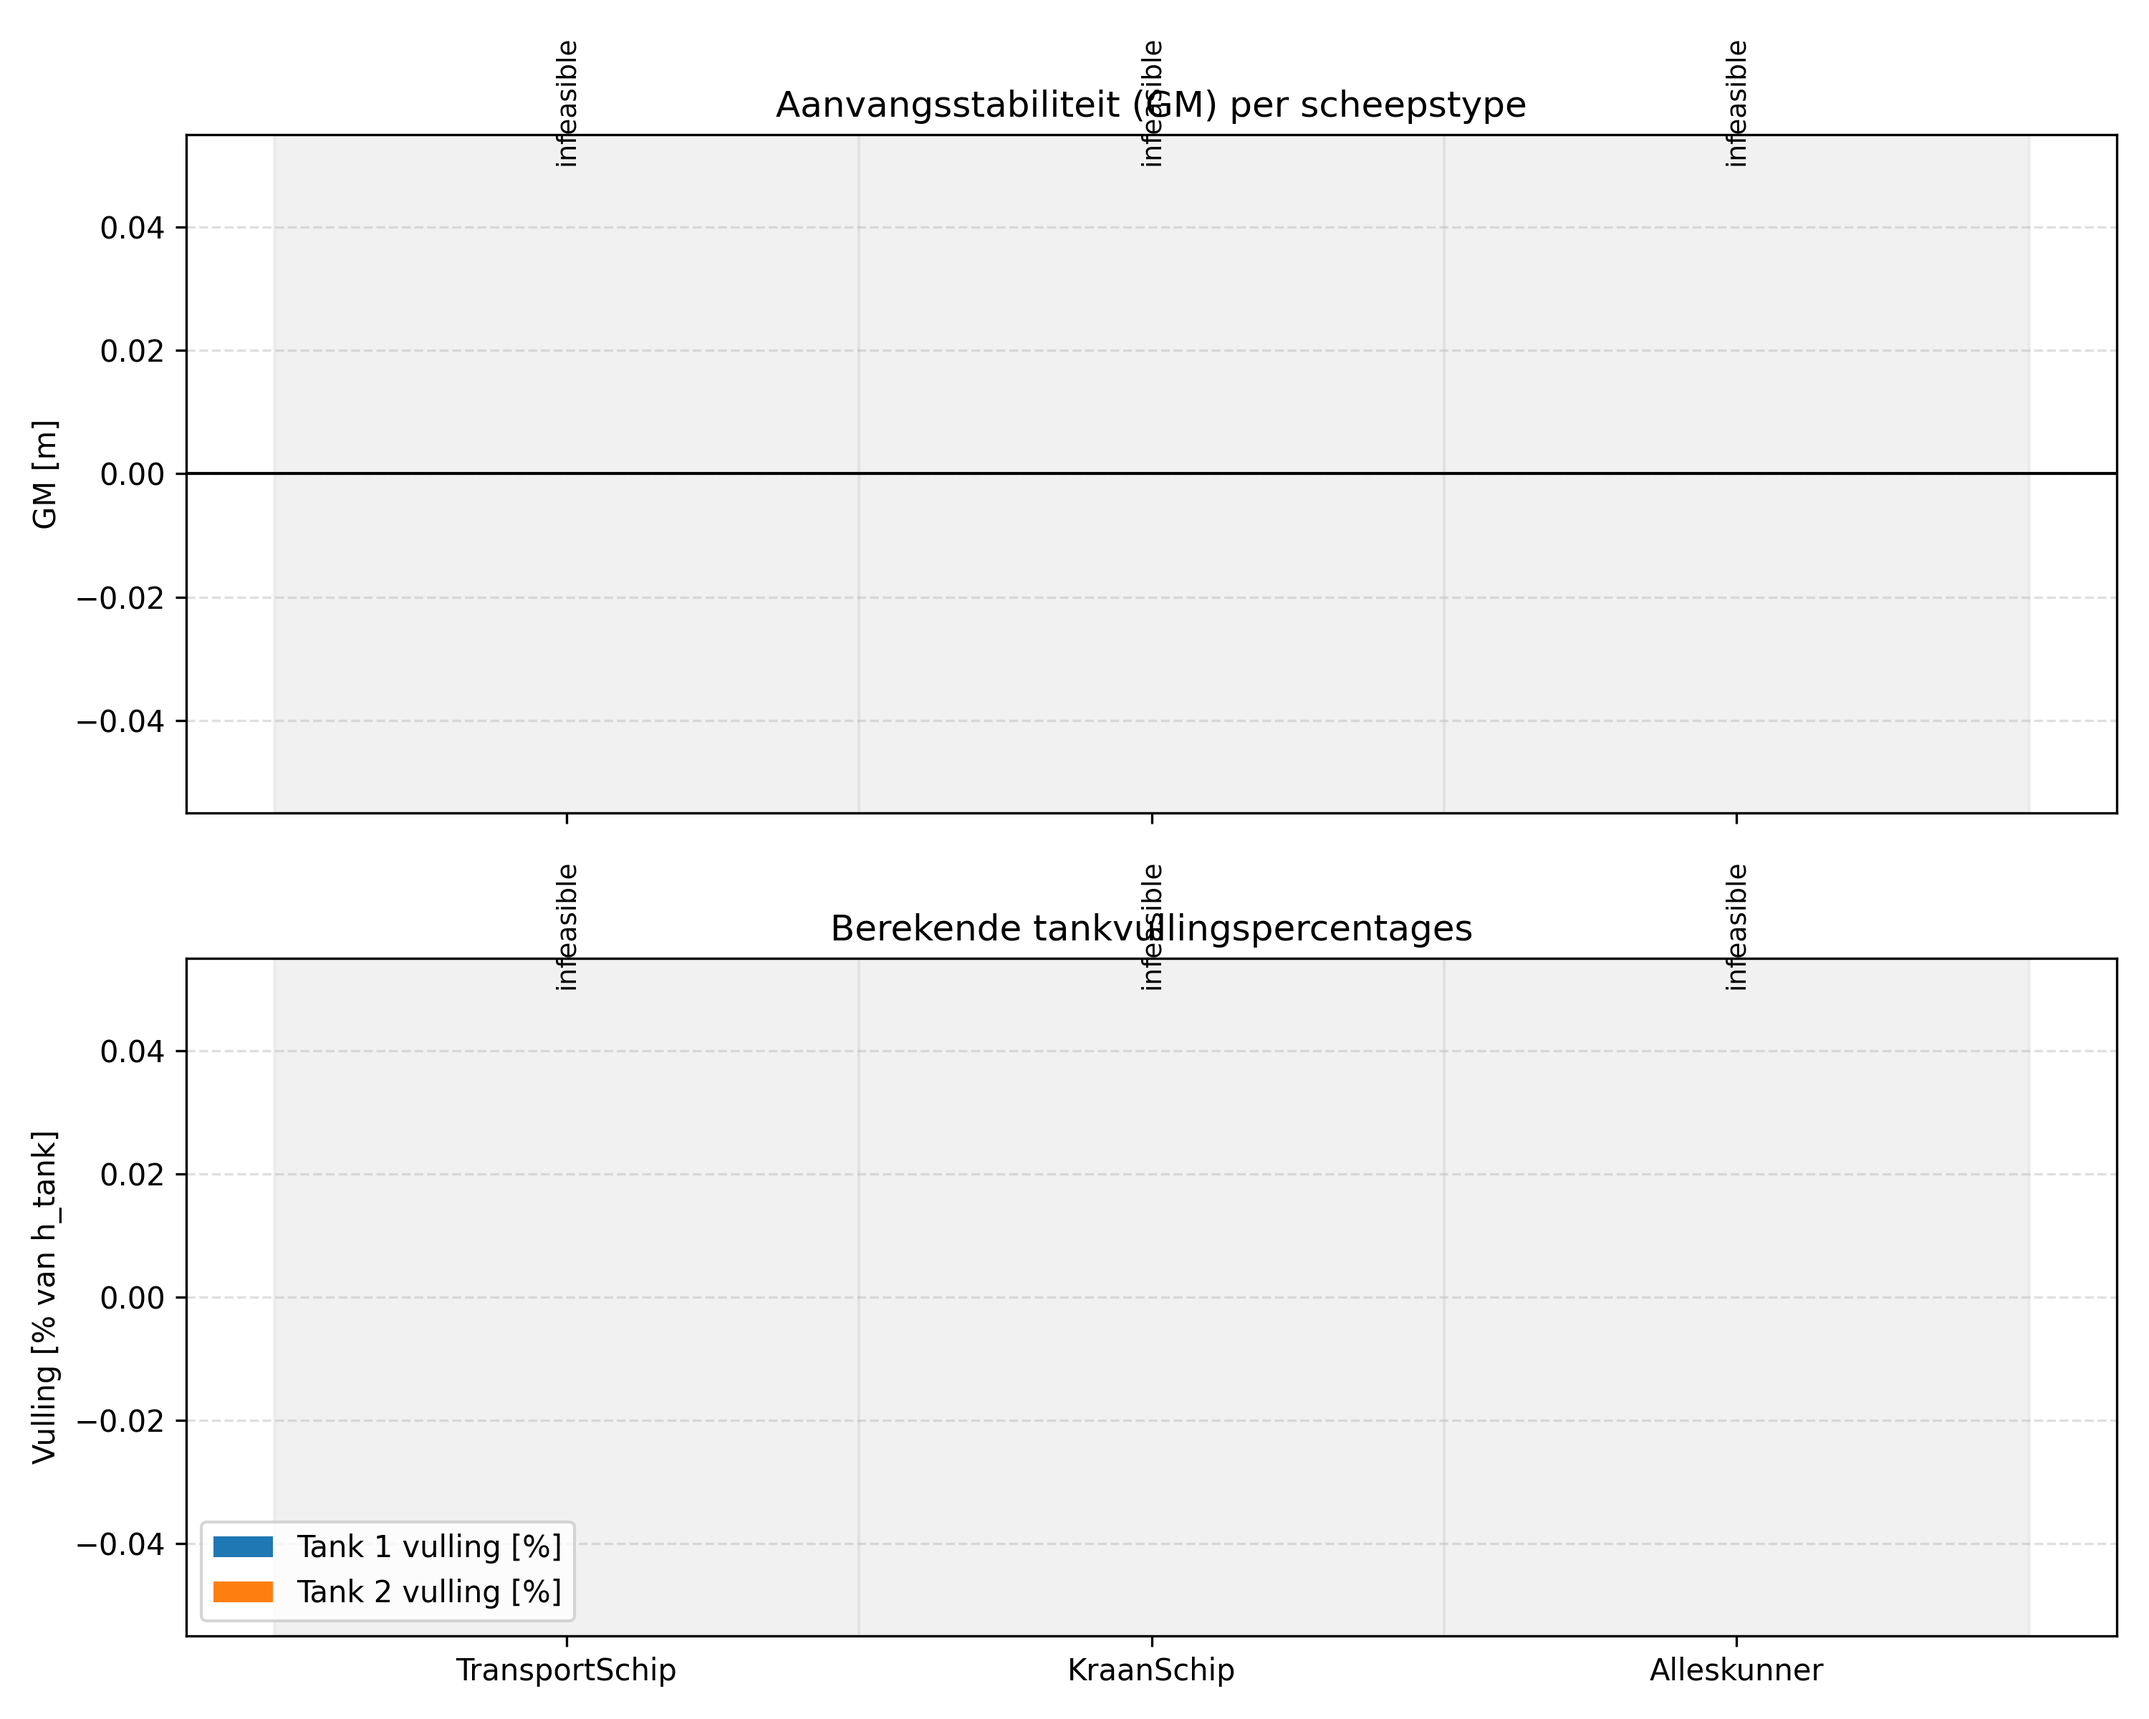
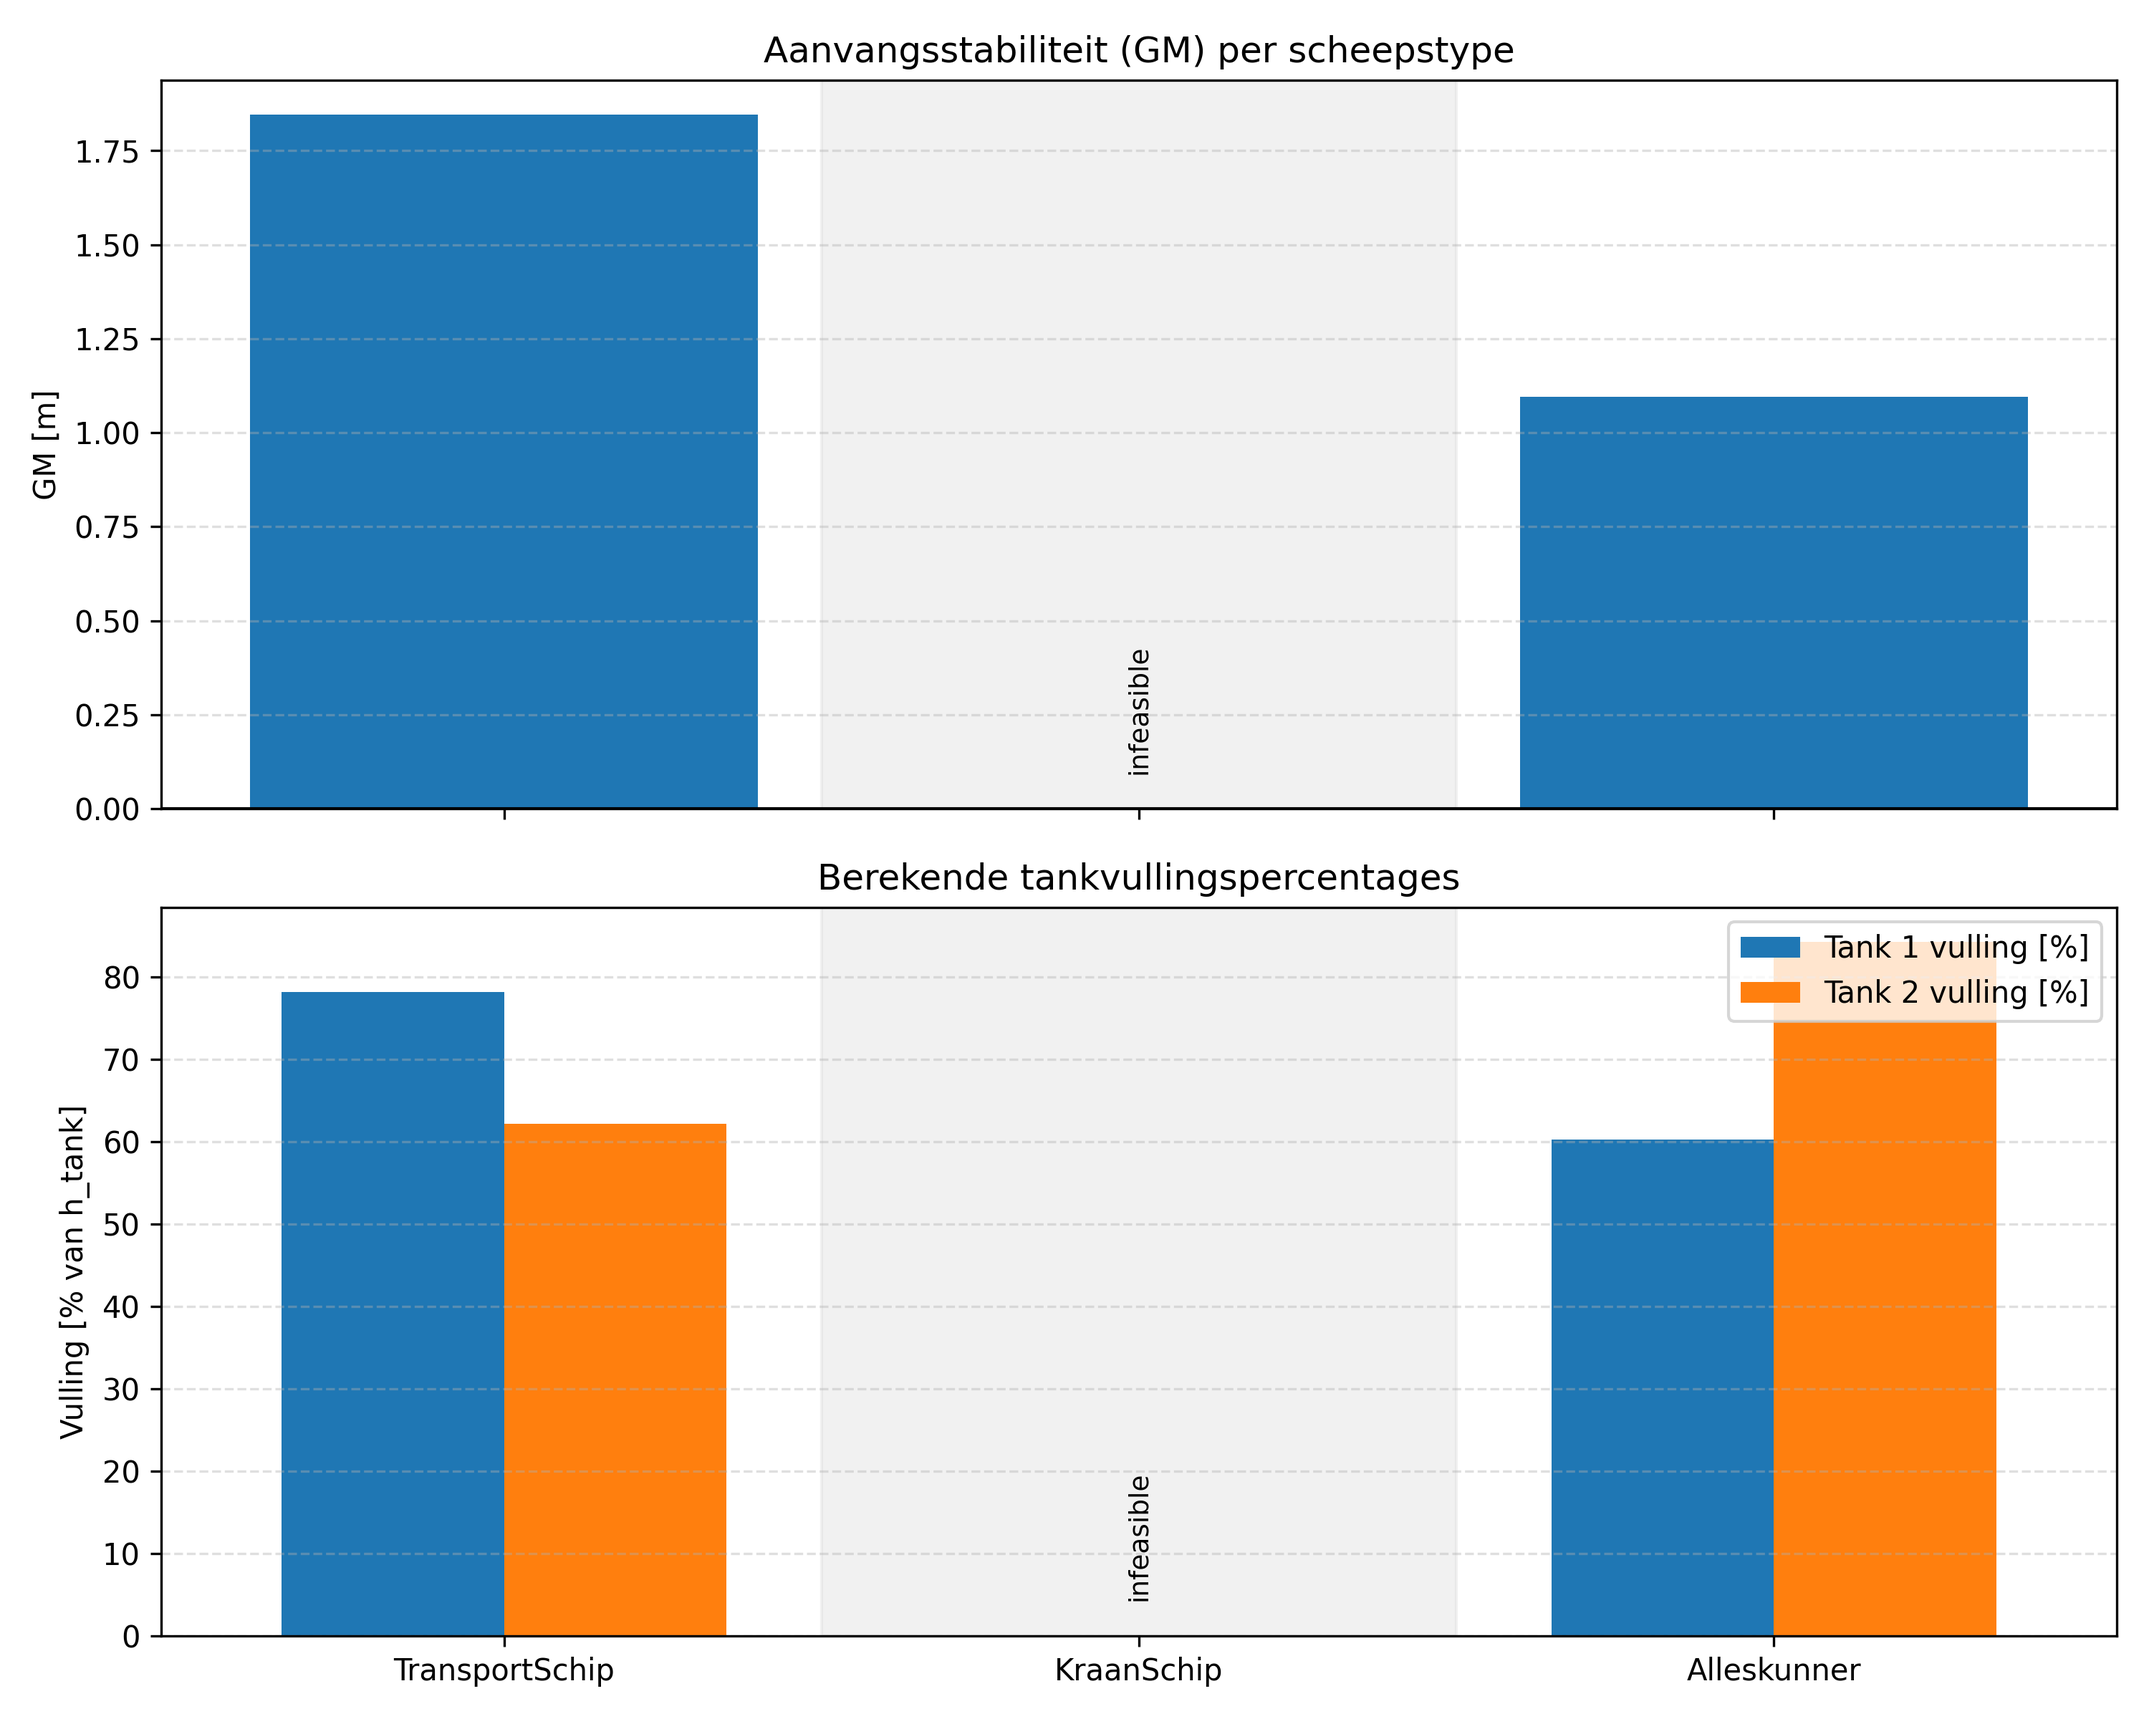
Add trim-based longitudinal equilibrium balancing

diff --git a/Nieuwe code pelle verschillende classes/Ship_pelle.py b/Nieuwe code pelle verschillende classes/Ship_pelle.py
@@ -53,6 +53,8 @@ class Ship:
         hook_position=None,
         tank2_is_movable=False,
         strict_residuen=False,
+        allow_trim_balance=True,
+        max_trim_deg=5.0,
     ):
         self.file = file
         self.crane_position = crane_position
@@ -75,6 +77,8 @@ class Ship:
         self.hook_position = hook_position
         self.tank2_is_movable = bool(tank2_is_movable)
         self.strict_residuen = bool(strict_residuen)
+        self.allow_trim_balance = bool(allow_trim_balance)
+        self.max_trim_deg = float(max_trim_deg)
 
         self.data_dir = self._resolve_data_dir(data_dir, fallback_data_dir)
         self.main_data = self._load_main_data()
@@ -163,9 +167,12 @@ class Ship:
         self.LPP = float(dimensions["Lpp_m"])
 
         self.COB = np.asarray(volume_data["COB_m"], dtype=float)
+        self.COB_effective = self.COB.copy()
         self.COV = np.asarray(volume_data["COV_Total_m"], dtype=float)
         self.buoyant_volume = float(volume_data["Buoyant_Volume_m3"])
         self.I = np.asarray(underwater_data["Inertia_WPA_around_COF_m4"], dtype=float)
+        self.trim_deg = 0.0
+        self.trim_applied = False
         if self.buoyant_volume <= 0.0:
             raise DataValidatieFout("Buoyant_Volume_m3 moet > 0 zijn.")
 
@@ -277,6 +284,8 @@ class Ship:
         """Bereken KB, KG, BM en GM."""
         self.KB = float(self.COB[2])
         self.KG = ZCG(self.ship_data[0], self.ship_data[3])
+        self.BML = float(self.I[1] / self.buoyant_volume)
+        self.GML = float(self.KB - self.KG + self.BML)
         self.BM = float(
             self.I[0] / self.buoyant_volume
             - (self.tank1.exact_GG + self.tank2.exact_GG + self.tank3.exact_GG)
@@ -291,12 +300,39 @@ class Ship:
 
         force_residual_kg = float(self.buoyant_mass - np.sum(massa))
         long_m_residual_kgm = float(
-            np.sum(massa * (lcg - self.COV[0])) + self.buoyant_mass * (self.COV[0] - self.COB[0])
+            np.sum(massa * (lcg - self.COV[0])) + self.buoyant_mass * (self.COV[0] - self.COB_effective[0])
         )
         trans_m_residual_kgm = float(
-            np.sum(massa * (tcg - self.COV[1])) + self.buoyant_mass * (self.COV[1] - self.COB[1])
+            np.sum(massa * (tcg - self.COV[1])) + self.buoyant_mass * (self.COV[1] - self.COB_effective[1])
         )
         return force_residual_kg, long_m_residual_kgm, trans_m_residual_kgm
+
+    def _probe_trim_balance(self):
+        """Probeer langsscheeps residu op te lossen via trim binnen limieten."""
+        if self.GML <= 0.0:
+            return False, "Trimcorrectie niet mogelijk: GML <= 0."
+
+        massa = np.asarray(self.ship_data[0], dtype=float)
+        lcg = np.asarray(self.ship_data[1], dtype=float)
+        totale_massa = float(np.sum(massa))
+        if totale_massa <= 0.0:
+            return False, "Trimcorrectie niet mogelijk: totale massa <= 0."
+
+        lcg_tot = float(np.sum(massa * lcg) / totale_massa)
+        delta_l = lcg_tot - float(self.COB[0])
+        trim_rad = float(np.arctan(delta_l / self.GML))
+        trim_deg = float(np.degrees(trim_rad))
+        if abs(trim_deg) > self.max_trim_deg:
+            return (
+                False,
+                f"Benodigde trim {trim_deg:.3f} graden overschrijdt limiet {self.max_trim_deg:.3f} graden.",
+            )
+
+        self.trim_deg = trim_deg
+        self.trim_applied = abs(trim_deg) > 1e-9
+        self.COB_effective = self.COB.copy()
+        self.COB_effective[0] = lcg_tot
+        return True, None
 
     def _validate_solution(self):
         """Controleer fysische grenzen en numerieke residuen."""
@@ -310,14 +346,20 @@ class Ship:
                     f"Vullingspercentage buiten [0,100] voor {naam}: {pct:.4f}%."
                 )
 
-        force_residual_kg, long_m_residual_kgm, trans_m_residual_kgm = self._bereken_residuen()
-        self.force_residual_kg = force_residual_kg
-        self.long_m_residual_kgm = long_m_residual_kgm
-        self.trans_m_residual_kgm = trans_m_residual_kgm
-
         force_tol = max(0.001 * self.buoyant_mass, 25.0)
         long_tol = max(0.001 * self.buoyant_mass * max(self.LOA, 1.0), 250.0)
         trans_tol = max(0.001 * self.buoyant_mass * max(self.width, 1.0), 250.0)
+
+        force_residual_kg, long_m_residual_kgm, trans_m_residual_kgm = self._bereken_residuen()
+        trim_fout = None
+        if abs(long_m_residual_kgm) > long_tol and self.allow_trim_balance:
+            trim_ok, trim_fout = self._probe_trim_balance()
+            if trim_ok:
+                force_residual_kg, long_m_residual_kgm, trans_m_residual_kgm = self._bereken_residuen()
+
+        self.force_residual_kg = force_residual_kg
+        self.long_m_residual_kgm = long_m_residual_kgm
+        self.trans_m_residual_kgm = trans_m_residual_kgm
 
         fouten = []
         if abs(force_residual_kg) > force_tol:
@@ -332,6 +374,8 @@ class Ship:
             fouten.append(
                 f"Dwarsscheeps residu te groot: {trans_m_residual_kgm:.3f} kgm, tolerantie {trans_tol:.3f} kgm."
             )
+        if trim_fout is not None:
+            fouten.append(trim_fout)
 
         self.residuen_ok = True
         self.residu_melding = None
@@ -355,6 +399,10 @@ class Ship:
             "KG": float(self.KG),
             "BM": float(self.BM),
             "GM": float(self.GM),
+            "BML": float(self.BML),
+            "GML": float(self.GML),
+            "trim_deg": float(self.trim_deg),
+            "trim_applied": bool(self.trim_applied),
             "force_residual_kg": float(self.force_residual_kg),
             "long_m_residual_kgm": float(self.long_m_residual_kgm),
             "trans_m_residual_kgm": float(self.trans_m_residual_kgm),

diff --git a/Nieuwe code pelle verschillende classes/Main_pelle.py b/Nieuwe code pelle verschillende classes/Main_pelle.py
@@ -436,6 +436,10 @@ def infeasible_result_dict(error_msg):
         "KG": None,
         "BM": None,
         "GM": None,
+        "BML": None,
+        "GML": None,
+        "trim_deg": None,
+        "trim_applied": None,
         "force_residual_kg": None,
         "long_m_residual_kgm": None,
         "trans_m_residual_kgm": None,
@@ -571,11 +575,11 @@ def bereken_scheepseigenschappen(ship):
     verticaal_afwijking_n = buoyancy_n - deplacement_n
 
     neer_m_long_nm = float(np.sum((massa * G) * (lcg - ship.COV[0])))
-    op_m_long_nm = float(buoyancy_n * (ship.COB[0] - ship.COV[0]))
+    op_m_long_nm = float(buoyancy_n * (ship.COB_effective[0] - ship.COV[0]))
     afwijking_long_nm = op_m_long_nm - neer_m_long_nm
 
     neer_m_trans_nm = float(np.sum((massa * G) * (tcg - ship.COV[1])))
-    op_m_trans_nm = float(buoyancy_n * (ship.COB[1] - ship.COV[1]))
+    op_m_trans_nm = float(buoyancy_n * (ship.COB_effective[1] - ship.COV[1]))
     afwijking_trans_nm = op_m_trans_nm - neer_m_trans_nm
 
     return {
@@ -606,7 +610,7 @@ def vul_antwoordenblad_in(template, ship_name, ship, basis, loadcase):
     data["Geometrie"]["Lengte #[m]"] = round(float(ship.LOA), 4)
     data["Geometrie"]["Breedte #[m]"] = round(float(ship.width), 4)
     data["Geometrie"]["Holte #[m]"] = round(float(ship.height), 4)
-    data["Geometrie"]["Trim #[graden]"] = 0
+    data["Geometrie"]["Trim #[graden]"] = round(float(ship.trim_deg), 4)
     data["Geometrie"]["Hellingshoek #[graden]"] = 0
 
     data["Constructie"]["Huid_en_dek_dikte #[mm]"] = round(basis.hull_thickness_m * 1000.0, 3)
